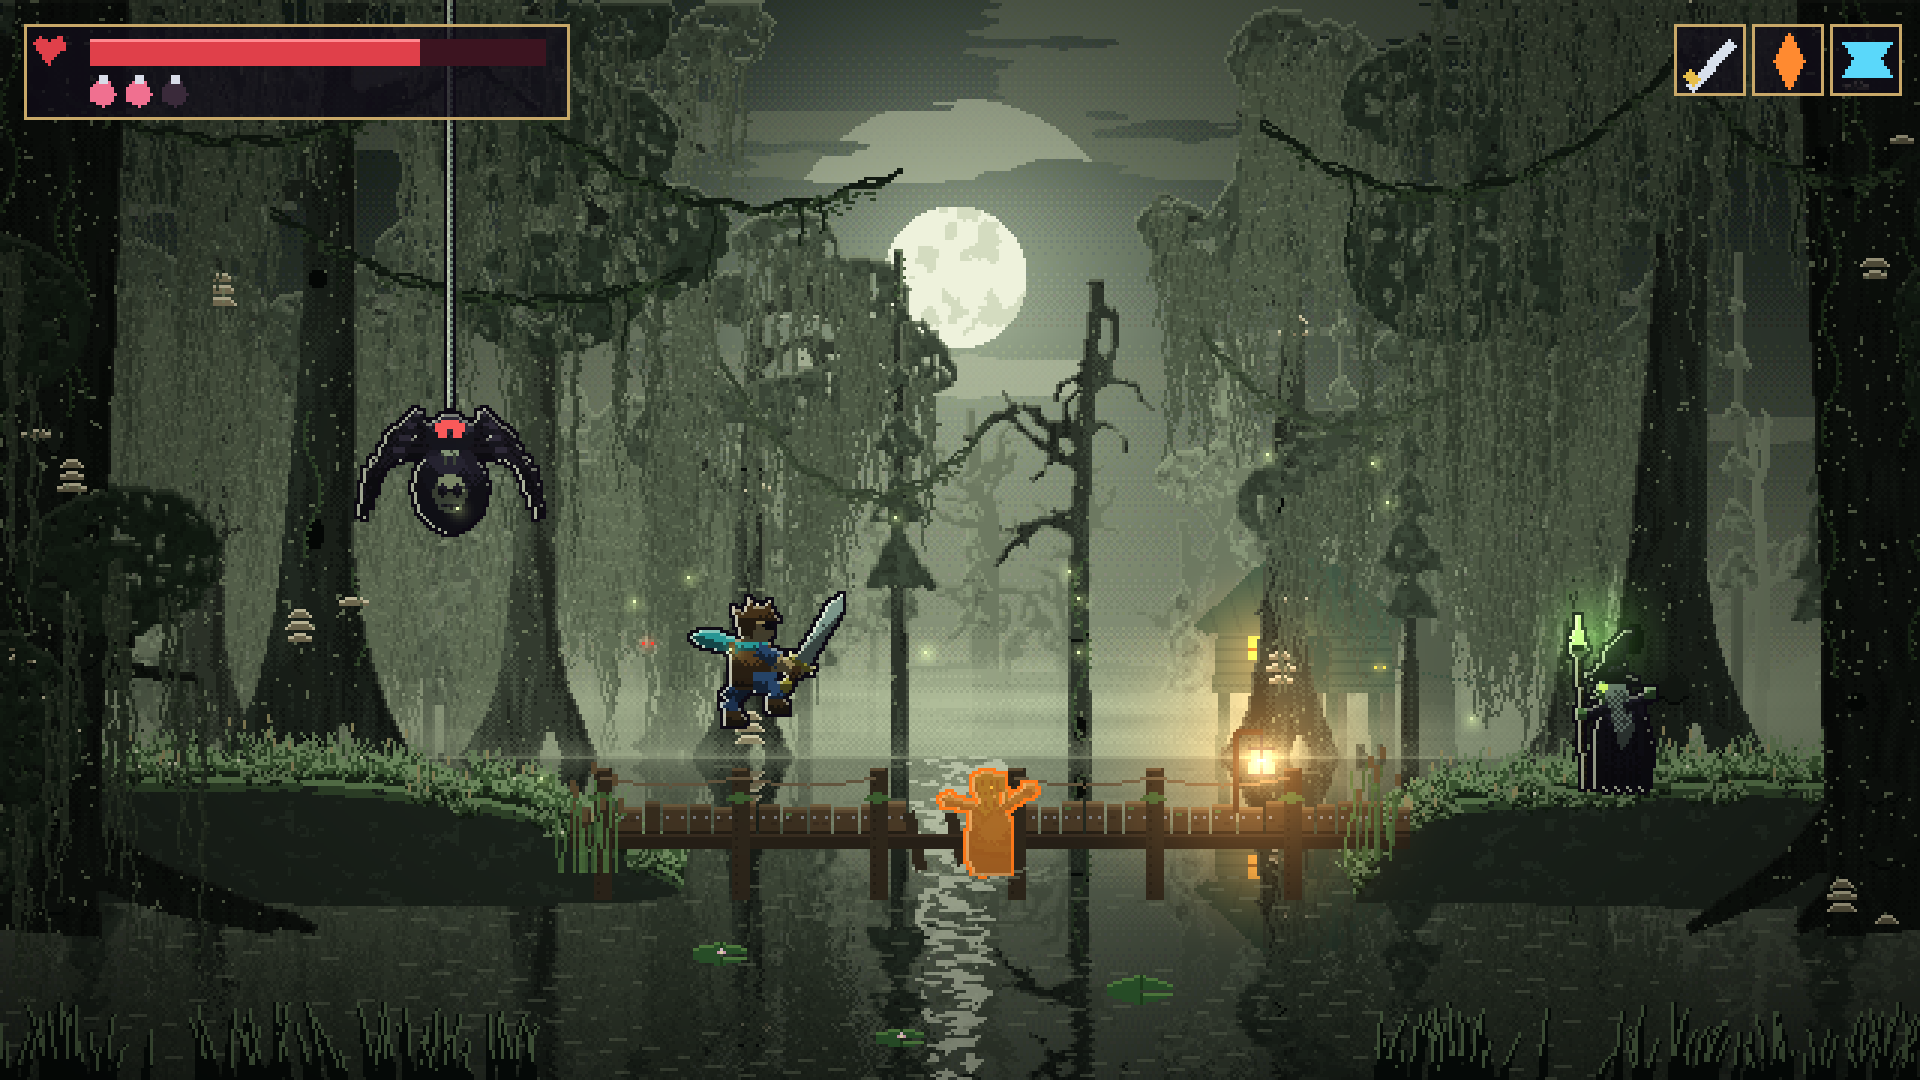
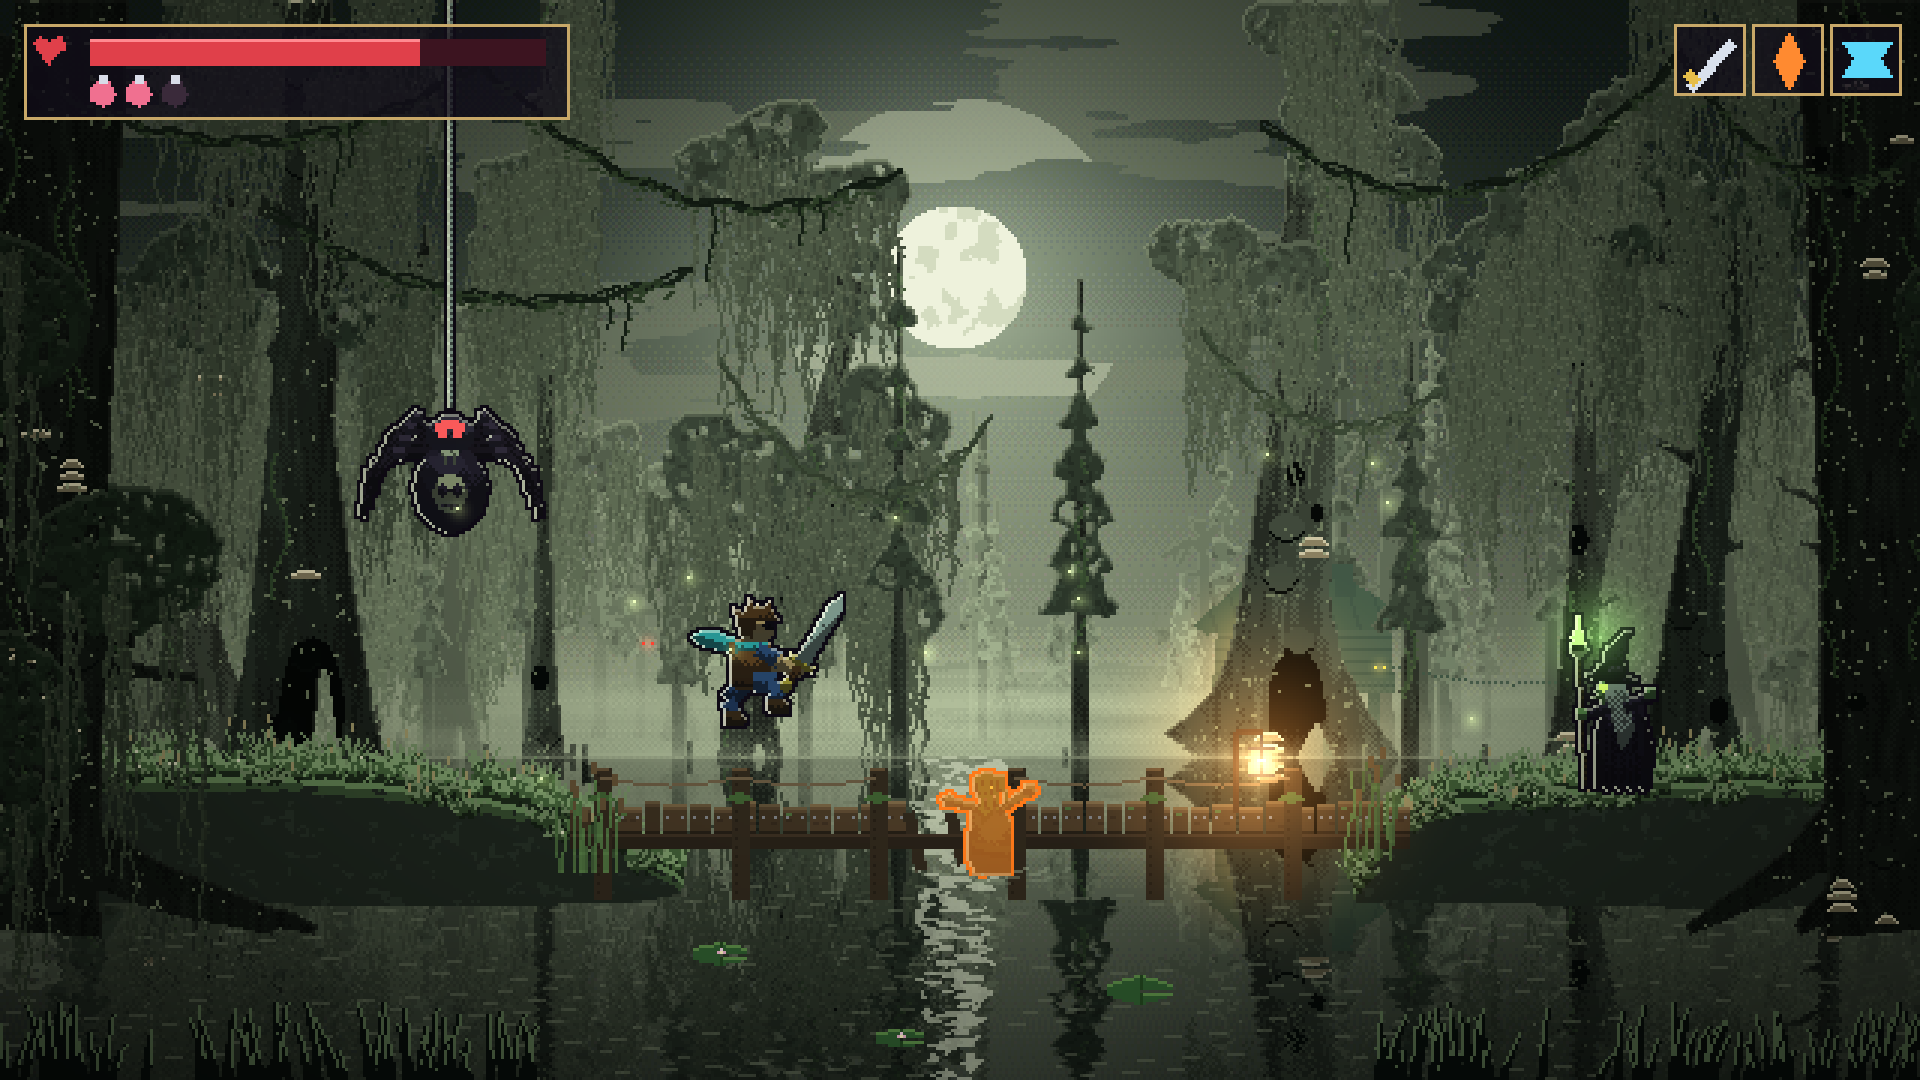
ART13b: swamp example, every tree its own form and size (squat, skinny, leaning, twin, hollow) and shade
Claude-Session: https://claude.ai/code/session_018E1RbT7Agev2Psz4WcAtF7

diff --git a/tools/art/final_swamp.py b/tools/art/final_swamp.py
@@ -101,12 +101,34 @@ def snag(x, base, h, w, rng):
     return S
 
 
-def cypress(x, base, h, w, rng):
-    """An old bald cypress: a trunk flaring wide at the water, knees around it, many crooked limbs and twigs, a ragged
-    crown of clumps with gaps, moss hanging everywhere."""
-    trunk = [taper([(x - w * 1.6, base + 3), (x - w * 0.5, base - h * 0.12), (x, base - h * 0.5), (x + rng.normal(0, w * 0.2), base - h)],
-                   w * 2.6, w * 0.5, 6)]
-    trunk.append(taper([(x + w * 1.6, base + 3), (x + w * 0.4, base - h * 0.14), (x, base - h * 0.4)], w * 1.2, w * 0.4, 4))
+FORMS = ['normal', 'lean', 'twin', 'squat', 'skinny', 'hollow']
+
+
+def cypress(x, base, h, w, rng, form=None):
+    """An old bald cypress in one of several forms (straight, leaning, split in two, squat and fat, tall and skinny,
+    hollow at the base): a trunk flaring at the water, knees, many crooked limbs, a ragged crown, moss everywhere."""
+    form = form or rng.choice(FORMS)
+    if form == 'squat':
+        w, h = w * 1.5, h * 0.72
+    elif form == 'skinny':
+        w, h = w * 0.6, h * 1.12
+    top_dx = rng.normal(0, w * 0.2)
+    if form == 'lean':
+        top_dx = rng.choice([-1, 1]) * w * rng.uniform(2.5, 5)
+    flare = rng.uniform(1.2, 2.2)
+    trunk = [taper([(x - w * flare * 0.6, base + 3), (x - w * 0.4, base - h * 0.12), (x + top_dx * 0.35, base - h * 0.5),
+                    (x + top_dx, base - h)], w * flare, w * rng.uniform(0.35, 0.6), 6)]
+    trunk.append(taper([(x + w * flare * 0.6, base + 3), (x + w * 0.4, base - h * 0.14), (x + top_dx * 0.3, base - h * 0.4)],
+                       w * flare * 0.45, w * 0.4, 4))
+    if form == 'twin':                                           # a second trunk splitting off low down
+        sd = -1 if top_dx > 0 else 1
+        trunk.append(taper([(x, base - h * 0.22), (x + sd * w * 1.6, base - h * 0.55), (x + sd * w * 3.0, base - h * 0.9)],
+                           w * 0.7, w * 0.3, 5))
+        x2 = x + sd * w * 3.0
+    hole = None
+    if form == 'hollow':
+        hole = (x, base - w * 0.9, w * 0.45, w * 1.0)
+    wc = min(w, 8.0)                                             # crowns and limbs keep a normal size on fat trunks
     for k in range(int(rng.integers(2, 5))):                     # cypress knees poking out of the water
         kx = x + rng.uniform(-w * 4, w * 4)
         trunk.append(taper([(kx, base + 3), (kx + rng.normal(0, 0.5), base - rng.uniform(2, 6))], rng.uniform(2, 3.4), 1, 2))
@@ -116,18 +138,21 @@ def cypress(x, base, h, w, rng):
         t = rng.uniform(0.4, 1.0)
         y = base - h * t
         sd = rng.choice([-1, 1])
-        crooked(trunk, x, y, -math.pi / 2 + sd * rng.uniform(0.5, 1.35), w * rng.uniform(3, 7), w * 0.6, 2, rng, tips)
+        bx = x + top_dx * t
+        if form == 'twin' and k % 2:
+            bx = x + (x2 - x) * min(1, t * 1.1)
+        crooked(trunk, bx, y, -math.pi / 2 + sd * rng.uniform(0.5, 1.35), wc * rng.uniform(3, 6), min(w, 12) * 0.6, 2, rng, tips)
     for (tx, ty) in tips:                                        # ragged clumps on some branch ends, bare twigs on others
         anchors.append((tx, ty + 1))
-        if rng.random() < 0.6:
-            r = w * rng.uniform(0.9, 1.8)
+        if rng.random() < 0.55:
+            r = wc * rng.uniform(0.9, 1.6)
             clumps.append(ell(tx + rng.normal(0, 1), ty + rng.normal(0, 1), r * rng.uniform(1.0, 1.6), r, rng.uniform(-30, 30), 14))
             anchors += [(tx + rng.uniform(-r, r), ty + r * 0.6) for _ in range(3)]
     for j in range(int(rng.integers(2, 5))):                     # the broken top: a few ragged clumps
-        cy_ = base - h + j * w * 1.2 - w
-        r = w * rng.uniform(1.0, 1.8) * (0.6 + j * 0.15)
-        clumps.append(ell(x + rng.normal(0, w * 0.8), cy_, r, r * 0.8, 0, 14))
-    return trunk, clumps, anchors
+        cy_ = base - h + j * wc * 1.2 - wc
+        r = wc * rng.uniform(1.0, 1.6) * (0.6 + j * 0.15)
+        clumps.append(ell(x + top_dx + rng.normal(0, w * 0.8), cy_, r, r * 0.8, 0, 14))
+    return trunk, clumps, anchors, hole
 
 
 def old_tree(x, base, h, w, rng, side=1):
@@ -281,11 +306,14 @@ def mist(img, y, thick, a, seed, stretch=70):
 
 
 def layer(img, items, d, seed, kind_weights, moss_on=True, rim=0.6, leaf_tint=C('#2a3e2a')):
-    """One depth layer: a mix of pines, snags and cypresses, all at depth d."""
+    """One depth layer: a mix of pines, snags and cypresses around depth d. Each tree gets its own form and a slightly
+    different shade, so no two look alike. Items: (x, base, h, w) or (x, base, h, w, form)."""
     rng = np.random.default_rng(seed)
-    trunks, clumps, anchors = [], [], []
-    for (x, base, h, w) in items:
-        k = rng.choice(['pine', 'snag', 'cypress'], p=kind_weights)
+    for n_, it in enumerate(items):
+        x, base, h, w = it[:4]
+        form = it[4] if len(it) > 4 else None
+        k = 'cypress' if form else rng.choice(['pine', 'snag', 'cypress'], p=kind_weights)
+        trunks, clumps, anchors, hole = [], [], [], None
         if k == 'pine':
             t, c = pine(x, base, h, w, rng)
             trunks += t
@@ -293,27 +321,31 @@ def layer(img, items, d, seed, kind_weights, moss_on=True, rim=0.6, leaf_tint=C(
         elif k == 'snag':
             trunks += snag(x, base, h, w * 0.9, rng)
         else:
-            t, c, a = cypress(x, base, h, w, rng)
+            t, c, a, hole = cypress(x, base, h, w, rng, form)
             trunks += t
             clumps += c
             anchors += a
-    col = depth_col(d)
-    tm = mask(trunks)
-    if d > 0.4:
-        tm = tm | (leafy(tm, seed + 9, 0.35) & _dilate(tm, 1))            # rough, uneven bark edges
-    cm = leafy(mask(clumps), seed, 1.0) if clumps else np.zeros((H, W), bool)
-    cm &= ~((fbm(XX / 3.5, YY / 3.5, 2, seed + 4) < 0.3) & ~_dilate(~cm, 2))  # gaps in the crowns
-    fill(img, tm, col * 0.95)
-    if d > 0.5:
-        bark_dark(img, tm, col * 1.1, seed)
-    foliage_shade(img, cm, mix(col, leaf_tint, 0.3 * d), seed, d)
-    if d > 0.45:
-        old_details(img, tm, 0, seed + 3, d)
-        climbing_vines(img, tm, mix(col, C('#3a5a30'), 0.5), mix(col, C('#5a7a44'), 0.5), seed + 6, 4)
-    rim_light(img, tm | cm, rim * (1 - d * 0.4))
-    if moss_on and anchors:
-        moss(img, anchors, mix(col, C('#6a7a5a'), 0.35), mix(col, C('#8a9a74'), 0.4), seed, 1.6, int(30 + 70 * d))
-    return tm | cm
+        di = float(np.clip(d + rng.uniform(-0.07, 0.07), 0, 1))
+        col = depth_col(di) * rng.uniform(0.9, 1.1)
+        sd = seed + n_ * 7
+        tm = mask(trunks)
+        if d > 0.4:
+            tm = tm | (leafy(tm, sd + 9, 0.35) & _dilate(tm, 1))         # rough, uneven bark edges
+        cm = leafy(mask(clumps), sd, 1.0) if clumps else np.zeros((H, W), bool)
+        cm &= ~((fbm(XX / 3.5, YY / 3.5, 2, sd + 4) < 0.3) & ~_dilate(~cm, 2))  # gaps in the crowns
+        fill(img, tm, col * 0.95)
+        if d > 0.5:
+            bark_dark(img, tm, col * 1.1, sd)
+        if hole is not None:
+            hx, hy, hrx, hry = hole
+            fill(img, mask([ell(hx, hy, hrx, hry, 0, 16)]) & tm, NEAR * 0.35)
+        foliage_shade(img, cm, mix(col, leaf_tint, 0.3 * di), sd, di)
+        if d > 0.45:
+            old_details(img, tm, 0, sd + 3, di)
+            climbing_vines(img, tm, mix(col, C('#3a5a30'), 0.5), mix(col, C('#5a7a44'), 0.5), sd + 6, 2)
+        rim_light(img, tm | cm, rim * (1 - di * 0.4))
+        if moss_on and anchors:
+            moss(img, anchors, mix(col, C('#6a7a5a'), 0.35), mix(col, C('#8a9a74'), 0.4), sd, 1.6, int(30 + 70 * di))
 
 
 def grass_tufts(img, top, grass_col, seed, density=0.5, hmin=3, hmax=12, d=0.8):
@@ -408,7 +440,8 @@ def scene():
     hut(img, 404, WATER - 52, 0.55)
     mist(img, WATER - 8, 20, 0.6, 4)
     # mid cypresses standing in the water
-    items = [(70, WATER + 2, 200, 8.5), (180, WATER + 2, 230, 9.5), (250, WATER + 1, 150, 7), (430, WATER + 2, 210, 8.5), (530, WATER + 1, 180, 8)]
+    items = [(62, WATER + 2, 220, 17, 'squat'), (182, WATER + 2, 250, 6, 'skinny'), (252, WATER + 1, 160, 9, 'lean'),
+             (432, WATER + 2, 240, 20, 'hollow'), (528, WATER + 1, 200, 8, 'twin')]
     layer(img, items, 0.52, 21, [0.0, 0.25, 0.75], rim=0.55)
     items = [(x, WATER + 1, rng.uniform(120, 200), 8.5) for x in (30, 300, 360, 470, 610)]
     layer(img, items, 0.6, 23, [0.85, 0.15, 0.0], moss_on=False, rim=0.5)
@@ -433,7 +466,7 @@ def scene():
     fill(img, ripl, mix(SKY_LO, NEAR, 0.4), 0.5)
     img[WATER, :] = mix(img[WATER, :], MIST, 0.35)
     # big cypresses at the sides, in front of the water
-    items = [(110, WATER + 6, 330, 14), (560, WATER + 8, 340, 15)]
+    items = [(104, WATER + 6, 340, 24, 'hollow'), (566, WATER + 8, 320, 11, 'lean')]
     layer(img, items, 0.78, 31, [0.0, 0.0, 1.0], rim=0.7)
     # mossy banks and the half-sunken boardwalk between them
     bank(img, [(-20, 300), (-10, 266), (60, 258), (140, 262), (196, 276), (214, 300)], 41, 0.82)
